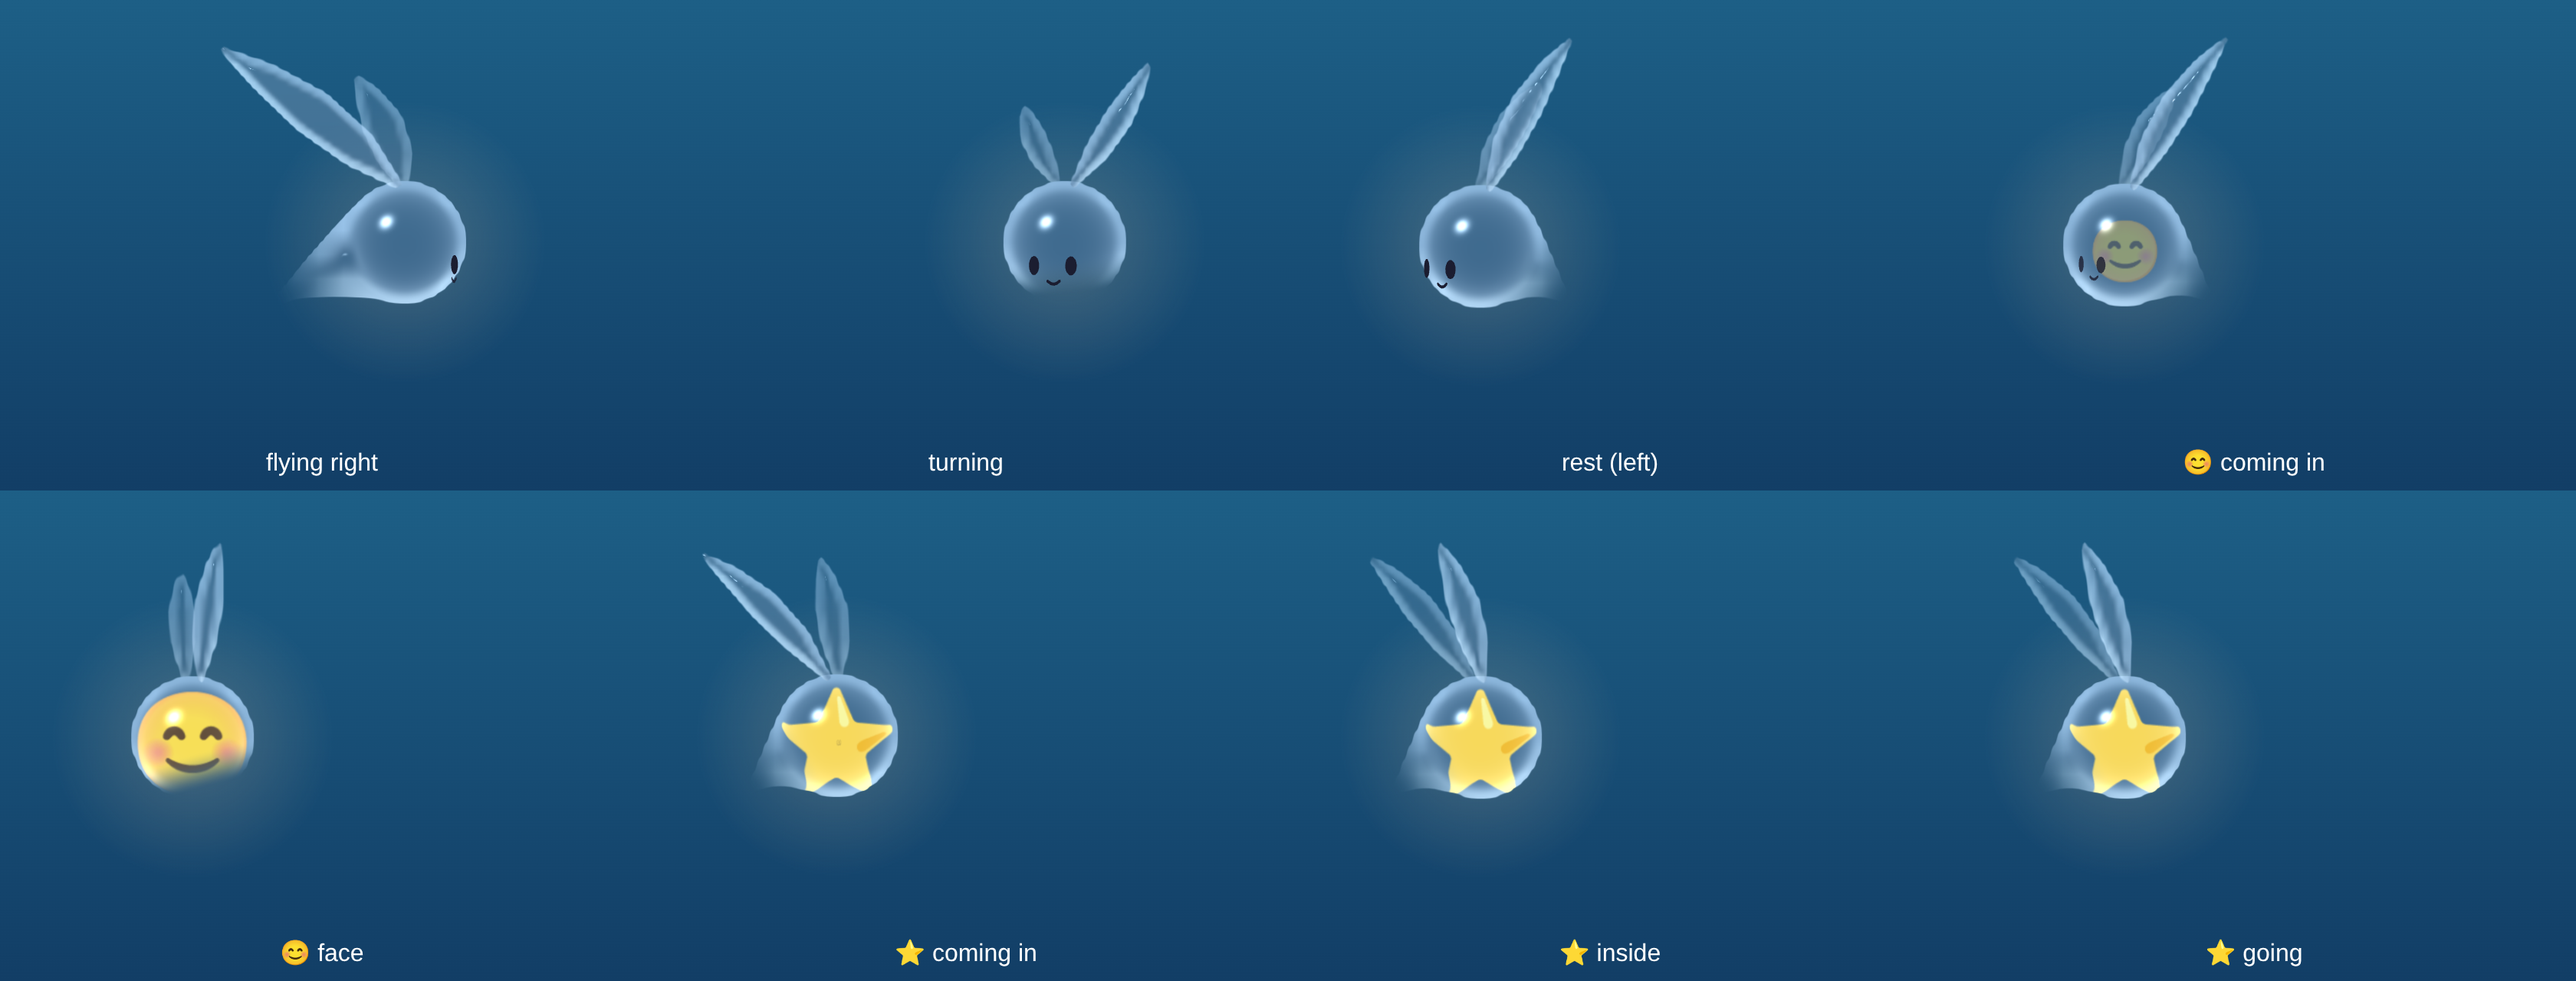
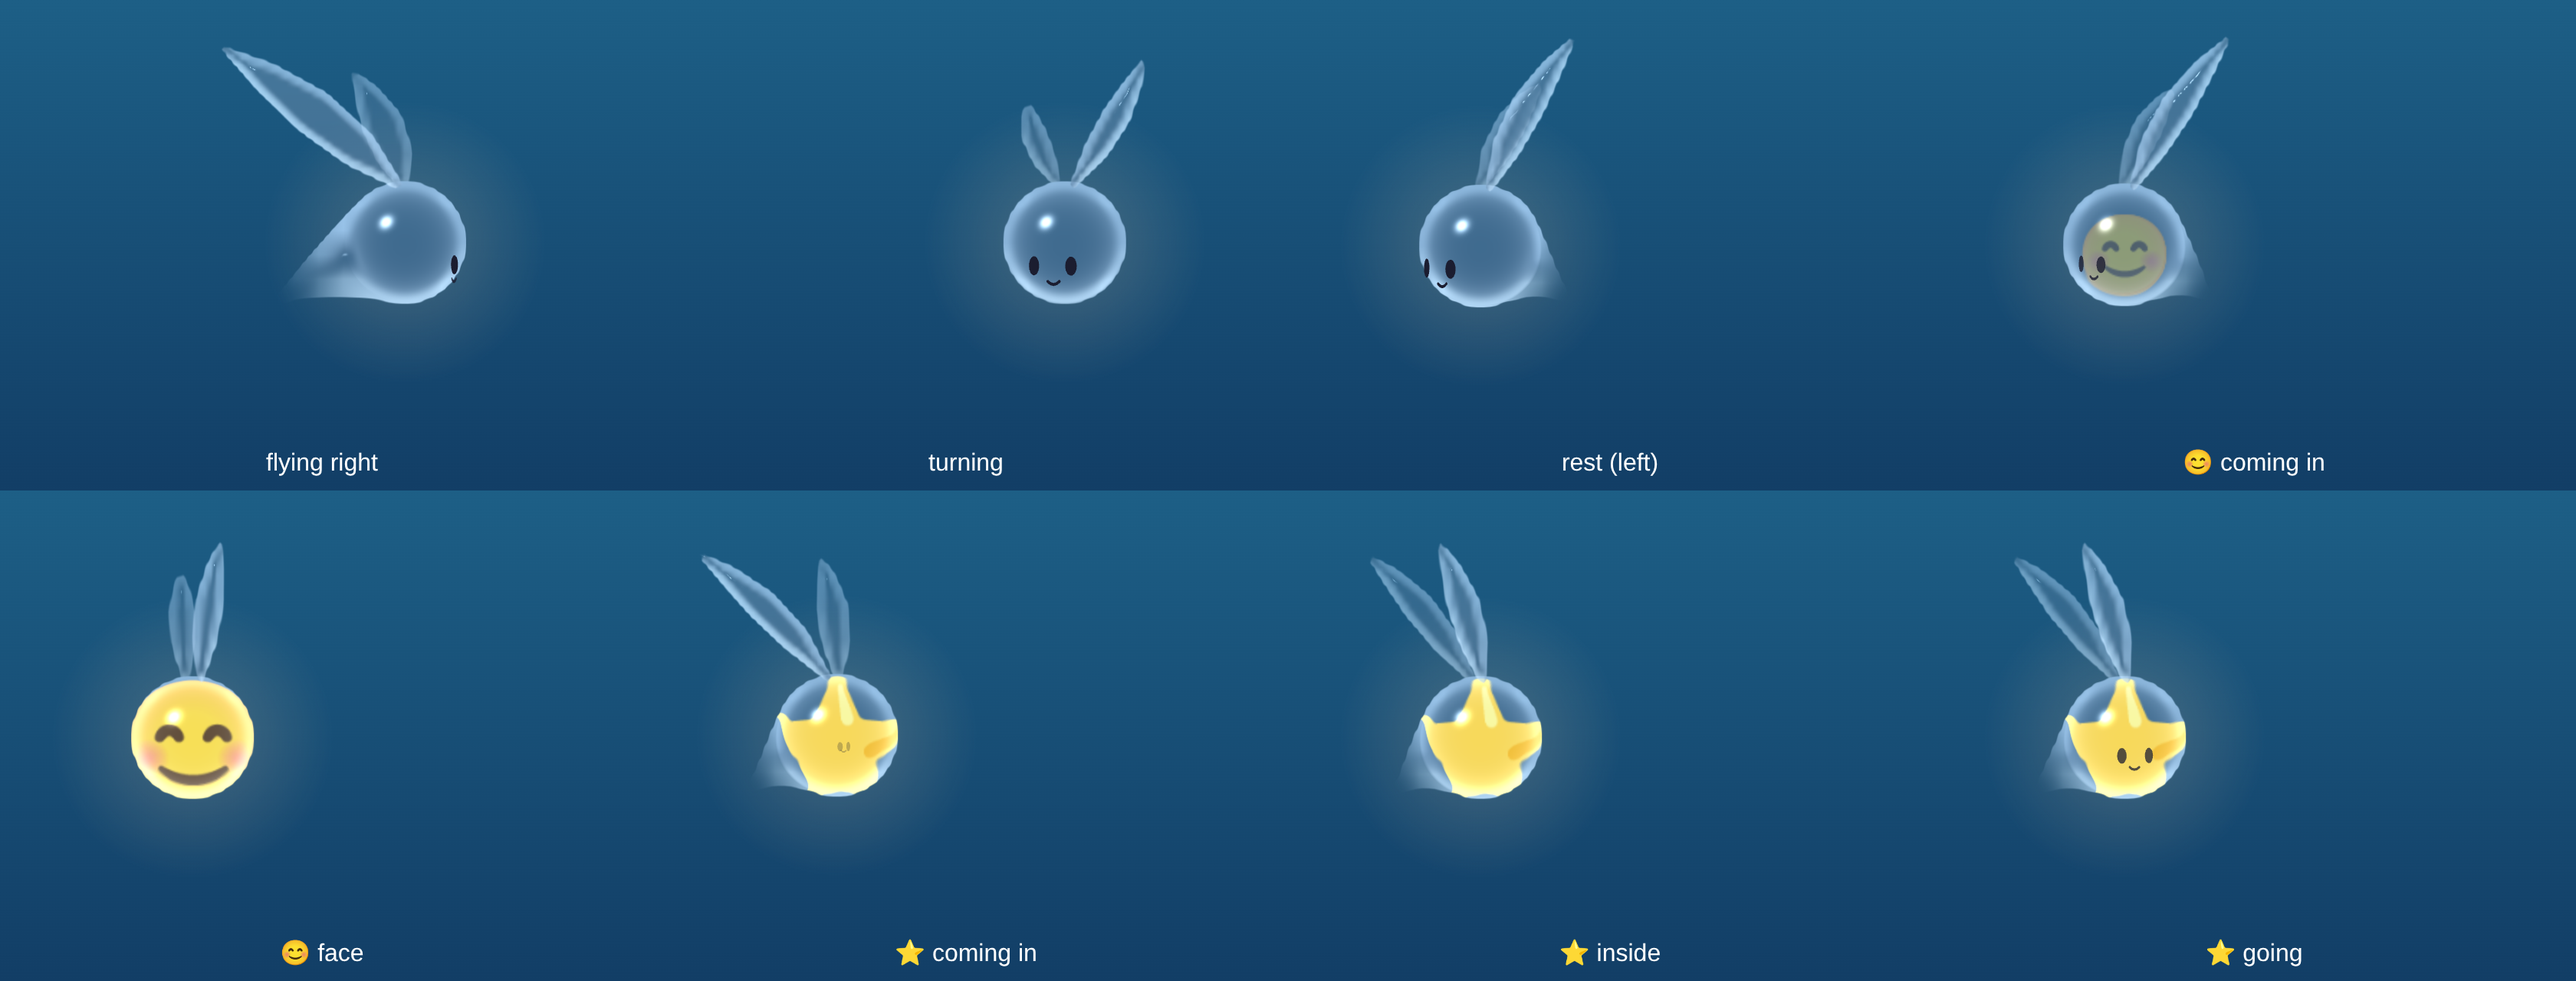
Pip vector: whole from the front (the tail's fade stays off his head), a tiny tail wag; emoji a bit smaller, bent more by the glass
Claude-Session: https://claude.ai/code/session_01Fk5mX8SBdThAyaXsRCBZu6

diff --git a/app/design/pip-vector.html b/app/design/pip-vector.html
@@ -81,7 +81,10 @@ function step(pos, R, t, dt, target, emote) {
   const gap = PICK.len / PICK.n;
   let prev = head;
   for (let i = 0; i < PICK.n; i++) {
-    const c = rig.tail[i], rest = norm(turnAbout(back, sideV, -PICK.curl * .9 * (i + 1) / PICK.n));
+    // facing you, the tail peeks out underneath with a tiny wag (Aaron)
+    const front = Math.max(0, Math.cos(rig.yaw * Math.PI / 180) - .5) * 2;
+    const wag = front * Math.sin(t * 2.4 - i * .5) * .12 * (i + 1) / PICK.n;
+    const c = rig.tail[i], rest = norm(add(turnAbout(back, sideV, -PICK.curl * .9 * (i + 1) / PICK.n), sideV, wag));
     let d = norm(v3(c.x - prev.x, c.y - prev.y, c.z - prev.z));
     d = norm(add(sc(d, .15), rest, .85));
     const goal = add(prev, d, gap), lag = Math.pow(.1, dt * 60);
@@ -294,7 +297,7 @@ vec3 slope(sampler2D t, vec2 px, vec2 uv, vec3 ch){
 vec4 glassAt(vec3 n, float a, vec2 off, bool body){
   float sy = mix(scr.x, scr.y, 1. - (v.y + off.y));
   vec3 col = bg(sy);                                                // what's behind him, bent
-  if (body) { vec4 em = texture2D(tI, v + off * .6); col = col * (1. - em.a) + em.rgb; }   // the emoji, bent too
+  if (body) { vec4 em = texture2D(tI, v + off * 1.3); col = col * (1. - em.a) + em.rgb; }   // the emoji, bent too
   col = mix(col, vec3(.87, .86, .95), (body ? .2 : .3) + .25 * (1. - n.z));                 // his glass colour
   float fr = pow(1. - n.z, 2.2);
   col += vec3(.8, .93, 1.) * fr * .6;                               // rim light
@@ -312,6 +315,7 @@ void main(){
   vec2 ht = tip - head;
   float along = dot(v - head, ht) / max(dot(ht, ht), 1e-4);
   float fade = 1. - smoothstep(.3, 1., along);                      // the tail fades (his shadow)
+  fade = max(fade, smoothstep(1.08, .96, sqrt(dd)));                // …never into his head (front view: he stays whole)
   vec4 outc = vec4(0.);
   if (bw > .001) { vec4 w = glassAt(slope(tS, pxS, v, vec3(0., 0., 1.)), bw * .45, vec2(0.), false); outc = w; }
   if (body > .001) { vec4 b = glassAt(n, body * fade, -n.xy * .045, true); outc = b + outc * (1. - b.a); }
@@ -377,7 +381,7 @@ function drawPipGlass(pos, R, t, dt, target, emoji, vis) {
   const I = GL.I, ip = px; if (I.width !== ip) I.width = I.height = ip;
   const ix = I.getContext('2d'); ix.clearRect(0, 0, ip, ip);
   if (emoji && vis > 0) {
-    const sz = R * 1.3 * (.5 + .5 * e) * k;
+    const sz = R * 1.15 * (.5 + .5 * e) * k;
     ix.globalAlpha = Math.min(1, vis * 1.5); ix.font = `${sz}px "Apple Color Emoji","Noto Color Emoji",sans-serif`;
     ix.textAlign = 'center'; ix.textBaseline = 'middle'; ix.fillText(emoji, ip / 2, ip / 2 + R * .08 * k + sz * .06);
     ix.globalAlpha = 1;
